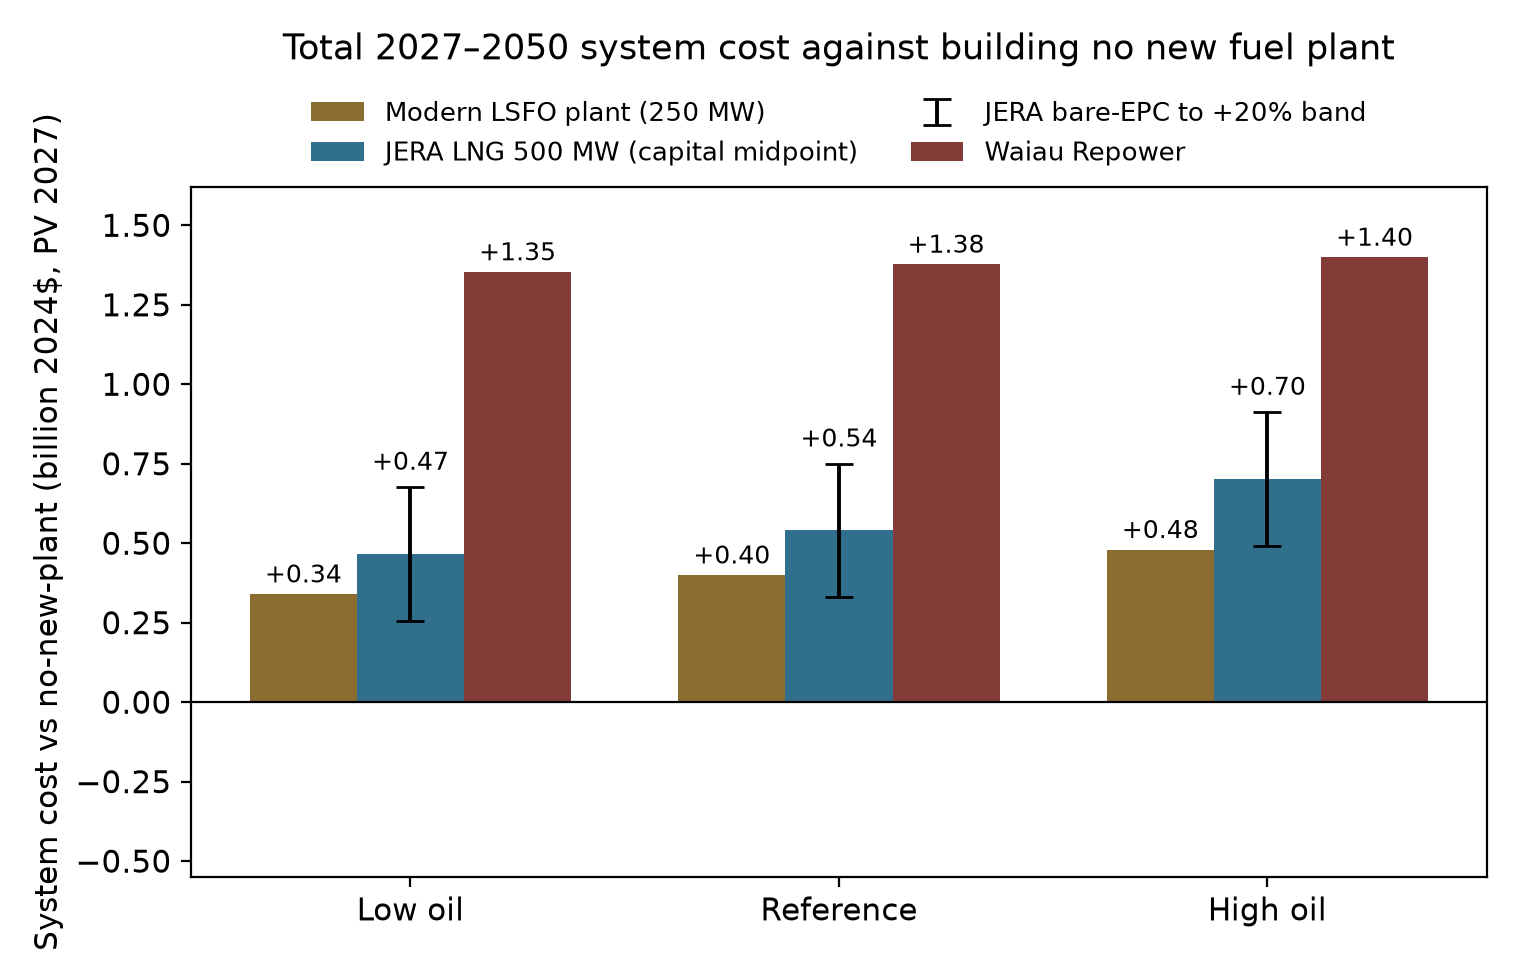
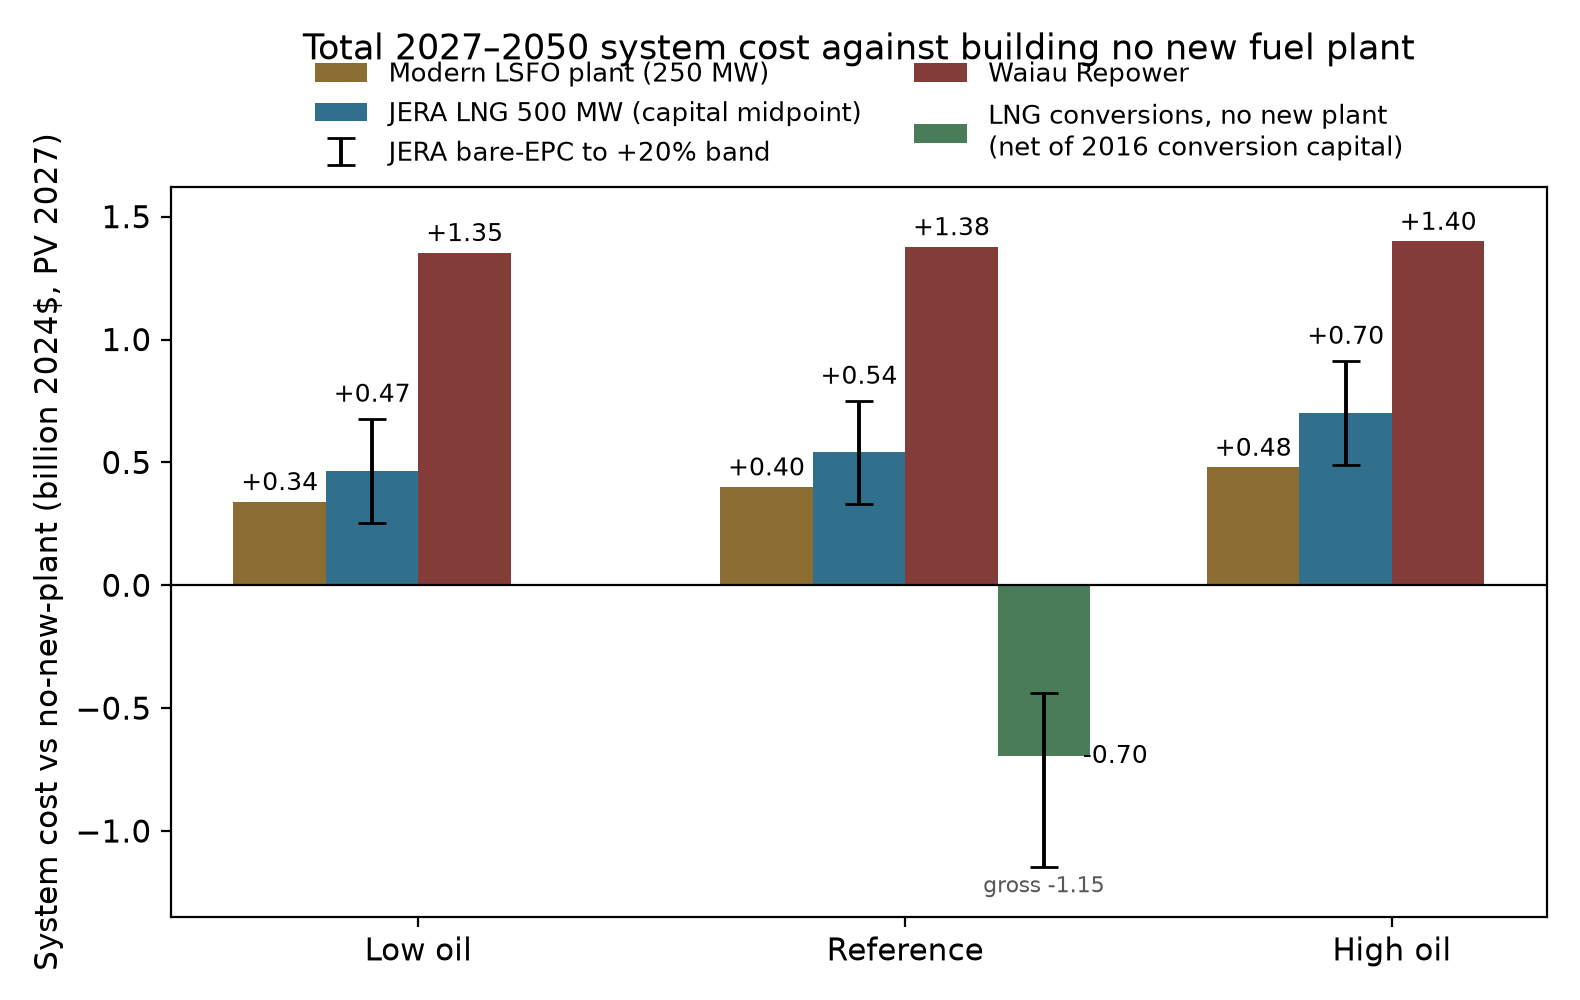
Sync: verification pass, numbers currency, and LNG-conversion option (net of 2016 capital) beside JERA
Snapshot of working repo HEAD 3b7652a. Adds the conversion-vs-JERA comparison
throughout (ES, ES.1, Figure ES.1, 4.6a, README, FAQ), the filled verification
items, and the numbers synced to the latest 0.1% refinements.

Claude-Session: https://claude.ai/code/session_014qbS4ykojCxB8EW1wkogjV

Changed region(s): [[0.0, 0.0312, 0.9895, 0.9688], [0.0, 0.75, 0.1237, 0.9688]]

diff --git a/report/figures/make_report_figures.py b/report/figures/make_report_figures.py
@@ -47,19 +47,40 @@ def fig_es1():
     lsfo = [cost(f"C1_LSFO250_{b}") - nt[b] for b in brents]
     waiau = [cost(f"wr_C4_NOTHERMAL_{b}") - nt[b] for b in brents]
 
+    # LNG conversions, no new plant (solved at reference oil only), net of the
+    # full 2016 conversion-program charge ($0.45B); whisker down to the gross
+    # saving and up to the stricter bound adding the 2016 onshore package.
+    conv_gross = cost("lngconv_heco_refbrent") - nt["refbrent"]
+    conv_net = conv_gross + 0.45
+    conv_bound = conv_gross + 0.45 + 0.26
+
     x = range(len(brents))
-    w = 0.25
-    fig, ax = plt.subplots(figsize=(7.6, 4.8))
-    b1 = ax.bar([i - w for i in x], lsfo, w,
+    w = 0.19
+    fig, ax = plt.subplots(figsize=(7.9, 5.0))
+    b1 = ax.bar([i - 1.5 * w for i in x], lsfo, w,
                 label="Modern LSFO plant (250 MW)", color="#8c6d31")
-    b2 = ax.bar(x, mid, w, label="JERA LNG 500 MW (capital midpoint)",
-                color="#31708c")
-    ax.errorbar(x, mid, yerr=[[m - b for m, b in zip(mid, bare)],
-                              [j - m for m, j in zip(mid, j120)]],
+    b2 = ax.bar([i - 0.5 * w for i in x], mid, w,
+                label="JERA LNG 500 MW (capital midpoint)", color="#31708c")
+    ax.errorbar([i - 0.5 * w for i in x], mid,
+                yerr=[[m - b for m, b in zip(mid, bare)],
+                      [j - m for m, j in zip(mid, j120)]],
                 fmt="none", ecolor="black", capsize=5, lw=1.4,
                 label="JERA bare-EPC to +20% band")
-    b3 = ax.bar([i + w for i in x], waiau, w, label="Waiau Repower",
+    b3 = ax.bar([i + 0.5 * w for i in x], waiau, w, label="Waiau Repower",
                 color="#843c39")
+    iref = brents.index("refbrent")
+    b4 = ax.bar([iref + 1.5 * w], [conv_net], w,
+                label="LNG conversions, no new plant\n(net of 2016 conversion capital)",
+                color="#4a7c59")
+    ax.errorbar([iref + 1.5 * w], [conv_net],
+                yerr=[[conv_net - conv_gross], [conv_bound - conv_net]],
+                fmt="none", ecolor="black", capsize=5, lw=1.4)
+    ax.annotate(f"{conv_net:+.2f}", (iref + 1.5 * w, conv_net),
+                ha="left", va="center", fontsize=9,
+                xytext=(14, 0), textcoords="offset points")
+    ax.annotate(f"gross {conv_gross:+.2f}", (iref + 1.5 * w, conv_gross),
+                ha="center", va="top", fontsize=8, color="0.35",
+                xytext=(0, -3), textcoords="offset points")
     ax.axhline(0, color="black", lw=0.8)
     for bars in (b1, b3):
         for r in bars:
@@ -68,10 +89,10 @@ def fig_es1():
                         ha="center", va="bottom", fontsize=9,
                         xytext=(0, 2), textcoords="offset points")
     for i, (m, j) in enumerate(zip(mid, j120)):
-        ax.annotate(f"{m:+.2f}", (i, j), ha="center", va="bottom",
+        ax.annotate(f"{m:+.2f}", (i - 0.5 * w, j), ha="center", va="bottom",
                     fontsize=9, xytext=(0, 4), textcoords="offset points")
     ax.set_xticks(list(x)); ax.set_xticklabels(labels)
-    ax.set_ylim(-0.55, 1.62)
+    ax.set_ylim(-1.35, 1.62)
     ax.set_ylabel("System cost vs no-new-plant (billion 2024$, PV 2027)")
     ax.set_title("Total 2027–2050 system cost against building no new fuel plant",
                  pad=46)

diff --git a/report/DRAFT_v7_full.md b/report/DRAFT_v7_full.md
@@ -69,7 +69,13 @@ plant burning today's fuel oil raises system cost further, while LNG burned in
 existing plants lowers it — converting the existing independent Kalaeloa plant 
 alone saves more than building JERA's proposed plant, and converting Hawaiian 
 Electric's Kahe 5 and 6 and their CIP turbine as well saves several times as much, 
-with no new construction (excluding conversion capital; Sections 4.3, 4.6a). 
+with no new construction. These conversion savings survive realistic conversion 
+costs: HECO's own 2016 program priced its entire multi-island conversion 
+package at $341 million ($450 million in 2024$), and charging that full amount 
+against the converted units still leaves a net saving of about $0.70 billion, 
+or at least $0.44 billion if the entire 2016 onshore-pipeline package is added 
+on top (Sections 4.3, 4.6a). The cheapest use of LNG is Oʻahu's existing 
+plants, not a new one. 
 The case for LNG, but not necessarily a new power plant, is stronger if solar 
 deployment costs stay near today's procurement reality, or if existing storage tax 
 credits are denied — while the clean-energy mandate itself is inexpensive to keep 
@@ -100,18 +106,23 @@ installations could be had for the same per-MW cost.
 (present value, billions of 2024$; difference vs. no new fuel plant in
 parentheses; current-law base case, 0.1% solve tolerance).** JERA rows show
 the midpoint of the bare-EPC and +20% capital cases; the band spans the two
-(Figure ES.1). The Waiau + JERA bundle was solved at reference oil only.
+(Figure ES.1). The Waiau + JERA bundle and the conversion configurations were
+solved at reference oil only. The conversion row nets out the full 2016
+conversion-program estimate ($450M in 2024$) as conversion capital; its
+bracketed value also adds the entire 2016 onshore-pipeline package ($260M),
+a deliberately extreme charge (Section 4.6a).
 
 ![Figure ES.1 — system cost vs no new plant, with the JERA capital band](figures/fig_ES1_jera_bracket.png)
 
 | Trajectory | Low oil | Reference | High oil |
 |---|---:|---:|---:|
-| No new fuel plant | 26.31 | 26.70 | 27.18 |
-| Modern LSFO plant (250 MW) | 26.65 (+0.34) | 27.10 (+0.40) | 27.66 (+0.48) |
-| JERA LNG 500 MW — midpoint | 26.78 (+0.47) | 27.24 (+0.54) | 27.88 (+0.70) |
-| *…JERA band [bare-EPC, +20%]* | *[+0.25, +0.68]* | *[+0.33, +0.75]* | *[+0.49, +0.91]* |
-| Waiau Repower only | 27.67 (+1.35) | 28.07 (+1.38) | 28.58 (+1.40) |
-| Waiau + LSFO plant | 28.08 (+1.77) | 28.54 (+1.84) | 29.10 (+1.92) |
+| No new fuel plant | 26.30 | 26.70 | 27.18 |
+| LNG conversions, no new plant — net of conversion capital | — | 26.00 (−0.70) *[−0.44]* | — |
+| Modern LSFO plant (250 MW) | 26.65 (+0.35) | 27.10 (+0.40) | 27.66 (+0.48) |
+| JERA LNG 500 MW — midpoint | 26.78 (+0.48) | 27.24 (+0.54) | 27.88 (+0.70) |
+| *…JERA band [bare-EPC, +20%]* | *[+0.27, +0.69]* | *[+0.33, +0.75]* | *[+0.49, +0.91]* |
+| Waiau Repower only | 27.67 (+1.36) | 28.07 (+1.38) | 28.58 (+1.40) |
+| Waiau + LSFO plant | 28.08 (+1.78) | 28.54 (+1.84) | 29.10 (+1.92) |
 | Waiau + JERA LNG — midpoint | — | 28.71 (+2.01) | — |
 
 **Reliability.** Every scenario considered meets load and operating reserves at
@@ -231,7 +242,7 @@ At the baseline cost basis — NREL ATB 2024 Moderate for solar and battery,
 plus a 20 percent Hawaiʻi premium, with the battery's co-location saving taken
 from NREL's own PV-plus-battery hybrid — total 2027–2050 system cost is $26.70
 billion at reference oil prices. Holding solar and battery costs 50 percent
-above that baseline for the full horizon raises system cost to $28.92 billion
+above that baseline for the full horizon raises system cost to $28.91 billion
 (+$2.2B); 70 percent above raises it to $29.63 billion (+$2.9B). (Because the
 baseline already includes the 20 percent Hawaiʻi premium, these correspond to
 roughly 1.8× and 2.0× the mainland ATB benchmark — the 1.5× case
@@ -929,11 +940,13 @@ billions of 2024$ at reference oil:
 
 | | Burns LSFO (today's fuel) | Burns LNG (terminal built) |
 |---|---:|---:|
-| **Existing plants only** | baseline (0) | −0.39 (Kalaeloa converted) to −1.15 (also Kahe 5 & 6, CIP CT) |
+| **Existing plants only** | baseline (0) | −0.40 (Kalaeloa converted) to −1.15 (also Kahe 5 & 6, CIP CT); −0.70 net of the full 2016 conversion-program charge |
 | **New 500 MW combined cycle** | +1.15 | +0.33 bare-EPC; +0.54 at the capital midpoint |
 
-*Conversion capital is set to zero in the conversion cells — an upper bound
-on the saving; caveats in Section 4.6a.*
+*Conversion capital is set to zero in the solved conversion cells; the −0.70
+net figure charges the entire 2016 conversion-program estimate ($450M in
+2024$) against the converted units as a capital adjustment, the same
+treatment as the EGS cost sensitivity. Details and caveats in Section 4.6a.*
 
 **Reading down the left column isolates the plant.** Capital is effectively
 a wash between the sisters (our LSFO combined cycle carries $2,900/kW
@@ -955,7 +968,7 @@ $16.7 at reference Brent (Table 1.1): roughly a third cheaper per unit of
 heat, an edge as large as the new plant's heat-rate advantage and available
 (up to conversion feasibility and cost) without building anything but the
 terminal. Burned in the existing fleet
-alone it saves $0.39 billion through Kalaeloa and $1.15 billion when Kahe 5
+alone it saves $0.40 billion through Kalaeloa and $1.15 billion when Kahe 5
 and 6 and the CIP combustion turbine convert as well. The model even routes
 gas through the CIP turbine at 11.7 MMBtu/MWh: at these prices, cheap fuel is
 worth burning even in the least efficient unit on the island, while expensive
@@ -1193,8 +1206,10 @@ combustion turbine.
 | Configuration (reference oil) | System cost ($B) | vs no-new-plant |
 |---|---:|---:|
 | No new fuel plant, no LNG | 26.70 | — |
-| FSRU + Kalaeloa conversion, no new plant | 26.30 | −0.39 |
+| FSRU + Kalaeloa conversion, no new plant | 26.29 | −0.40 |
 | FSRU + Kalaeloa, Kahe 5 & 6, CIP CT conversions, no new plant | 25.55 | **−1.15** |
+| *…same, net of the full 2016 conversion-program charge ($0.45B)* | *26.00* | ***−0.70*** |
+| *…same, also charging the entire 2016 onshore package ($0.26B)* | *26.26* | *−0.44* |
 | JERA 500 (bare-EPC), no conversions | 27.03 | +0.33 |
 | JERA 500 (bare-EPC) + Kalaeloa conversion | 26.57 | −0.13 |
 
@@ -1230,6 +1245,24 @@ has a 2016 benchmark too: HECO's own May 2016 PUC request implied about
 $341 million across four sites on three islands ($450 million in 2024$).
 Both sit an order of magnitude inside the budgets. (The terminal, mooring, and regasification infrastructure is
 already charged in these runs; plant laterals and conversions are not.)
+
+These 2016 estimates permit a direct net-of-capital assessment without
+re-running anything, exactly as the EGS cost sensitivity is handled: a
+capital charge against the solved saving. The table's net rows charge the
+**entire** 2016 conversion program — all four sites on three islands, $450
+million in 2024 dollars at face value — against our three-unit Oʻahu
+configuration alone, although the 2016 program covered far more capacity
+(Kahe 1–6 and Waiau 5–10 among others). The full conversion set still nets
+**−$0.70 billion**. The stricter bound adds the entire 2016 onshore package
+($260 million: buoy, subsea pipeline, and all extensions) on top, even
+though the JERA runs already charge $460 million of import infrastructure
+that covers most of the same functions; the saving is still **−$0.44
+billion**. Both charges are deliberately conservative: the 2016 program's
+$450 million covered roughly 1,300 MW of conversions (≈$0.35M per MW), so
+charging it all against our 590 MW set implies about $0.76M per MW, roughly
+twice the program's own rate, and over $1.2M per MW with the onshore
+package added. Every direction of approximation here overstates conversion
+cost.
 On the credited basis the central ranking is not fragile: "Kalaeloa
 conversion beats building JERA's plant" rests on a margin of $0.73 billion
 at bare-EPC capital — about $3,300/kW of converted capacity — which
@@ -1242,11 +1275,11 @@ Waiau through pipeline extensions, no new plant, and the vessel gone at
 the end of the contract.
 
 Three caveats temper the result further: no per-unit Oʻahu conversion
-figures were ever published, so the $341 million is scale context rather
-than a project estimate, and the zero-capex assumption binds hardest for
-the oldest units — Kahe 5 and 6 are
-1970s-era steam plants whose conversion and remaining-life costs would
-claim some of the $1.15 billion. Conversion is effectively one-way,
+figures were ever published, so the $341 million is a program total rather
+than a project estimate, and the units most likely to exceed their share
+of the charged allowance are the oldest — Kahe 5 and 6 are 1970s-era steam
+plants whose refurbishment and remaining-life costs are the least
+predictable part of the package. Conversion is effectively one-way,
 since dual-fuel combustors pair gas with distillate rather than with
 residual oil, so converted units would give up their LSFO capability. And
 ownership and contract status shape who captures the saving — Kalaeloa is

diff --git a/FAQ.md b/FAQ.md
@@ -11,7 +11,10 @@ and preserving the Enhanced Geothermal option is cheap with meaningful
 upside. Close: the JERA LNG bundle versus building no new fuel plant is a
 modest but consistent penalty for LNG — about $0.54 billion, or two-tenths
 of a cent per kilowatt-hour, at the reference-oil midpoint, and a cost
-increase in every oil-price case. The
+increase in every oil-price case. If Hawaiʻi wants the LNG fuel saving, the
+cheap way to get it is converting existing plants, not building new: net of
+the full 2016 conversion-program estimate, conversions save about $0.70
+billion (report §4.6a). The
 decisions that actually move Hawaiʻi's bills are procurement, permitting,
 and interconnection reform; the fuel choice moves them by an order of
 magnitude less. (Executive Summary.)

diff --git a/README.md b/README.md
@@ -19,7 +19,10 @@ decades of investment.
    price near mainland benchmarks.
 2. **Building the JERA LNG bundle costs modestly more than building no new
    fuel plant** — about $0.54 billion at reference oil (roughly two-tenths of
-   a cent per kilowatt-hour), and more in every oil-price case. The gap is
+   a cent per kilowatt-hour), and more in every oil-price case. The cheapest
+   use of the same LNG is converting existing plants with no new construction:
+   charged with the entire 2016 conversion-program estimate ($450M in 2024$),
+   conversions still save about $0.70 billion (report §4.6a). The gap is
    small, so contract structure, timing of the clean transition, upstream
    emissions, and risk carry the decision — and they point the same way as
    the cost.
